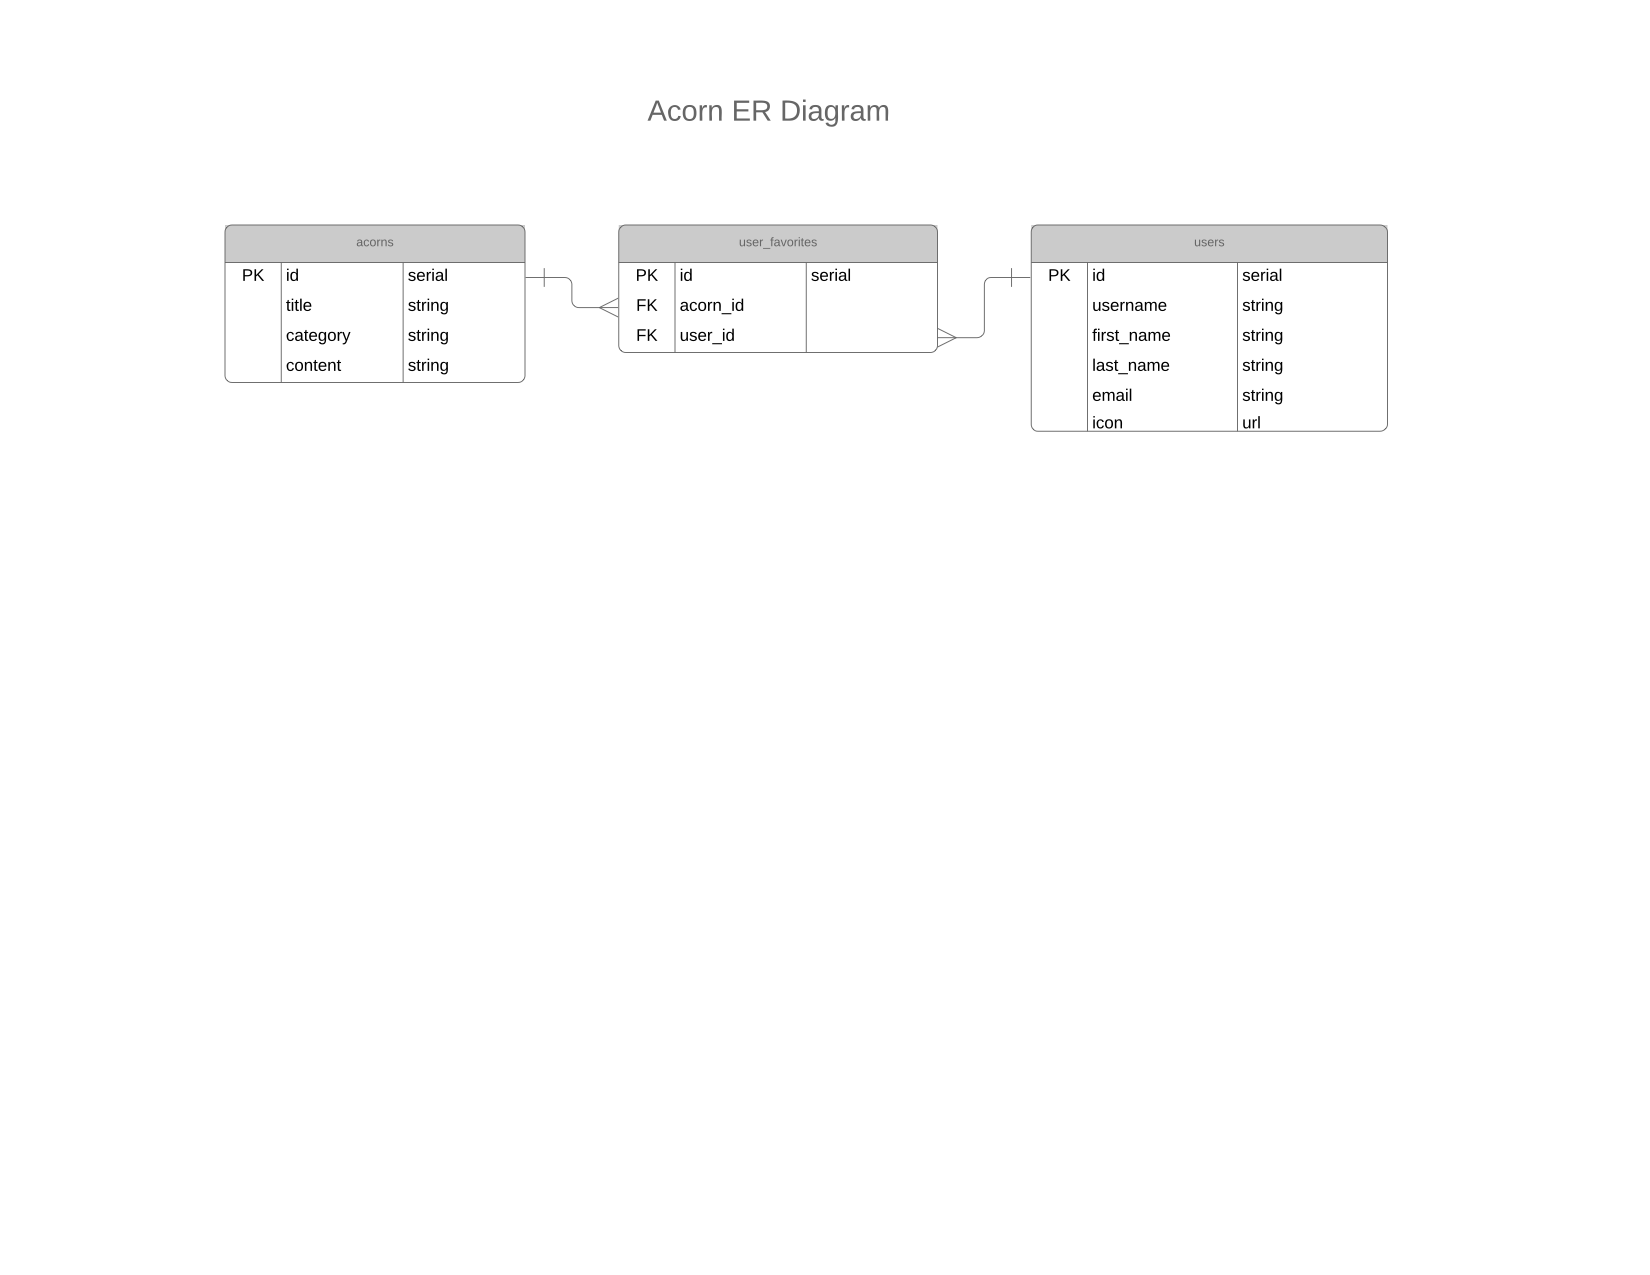
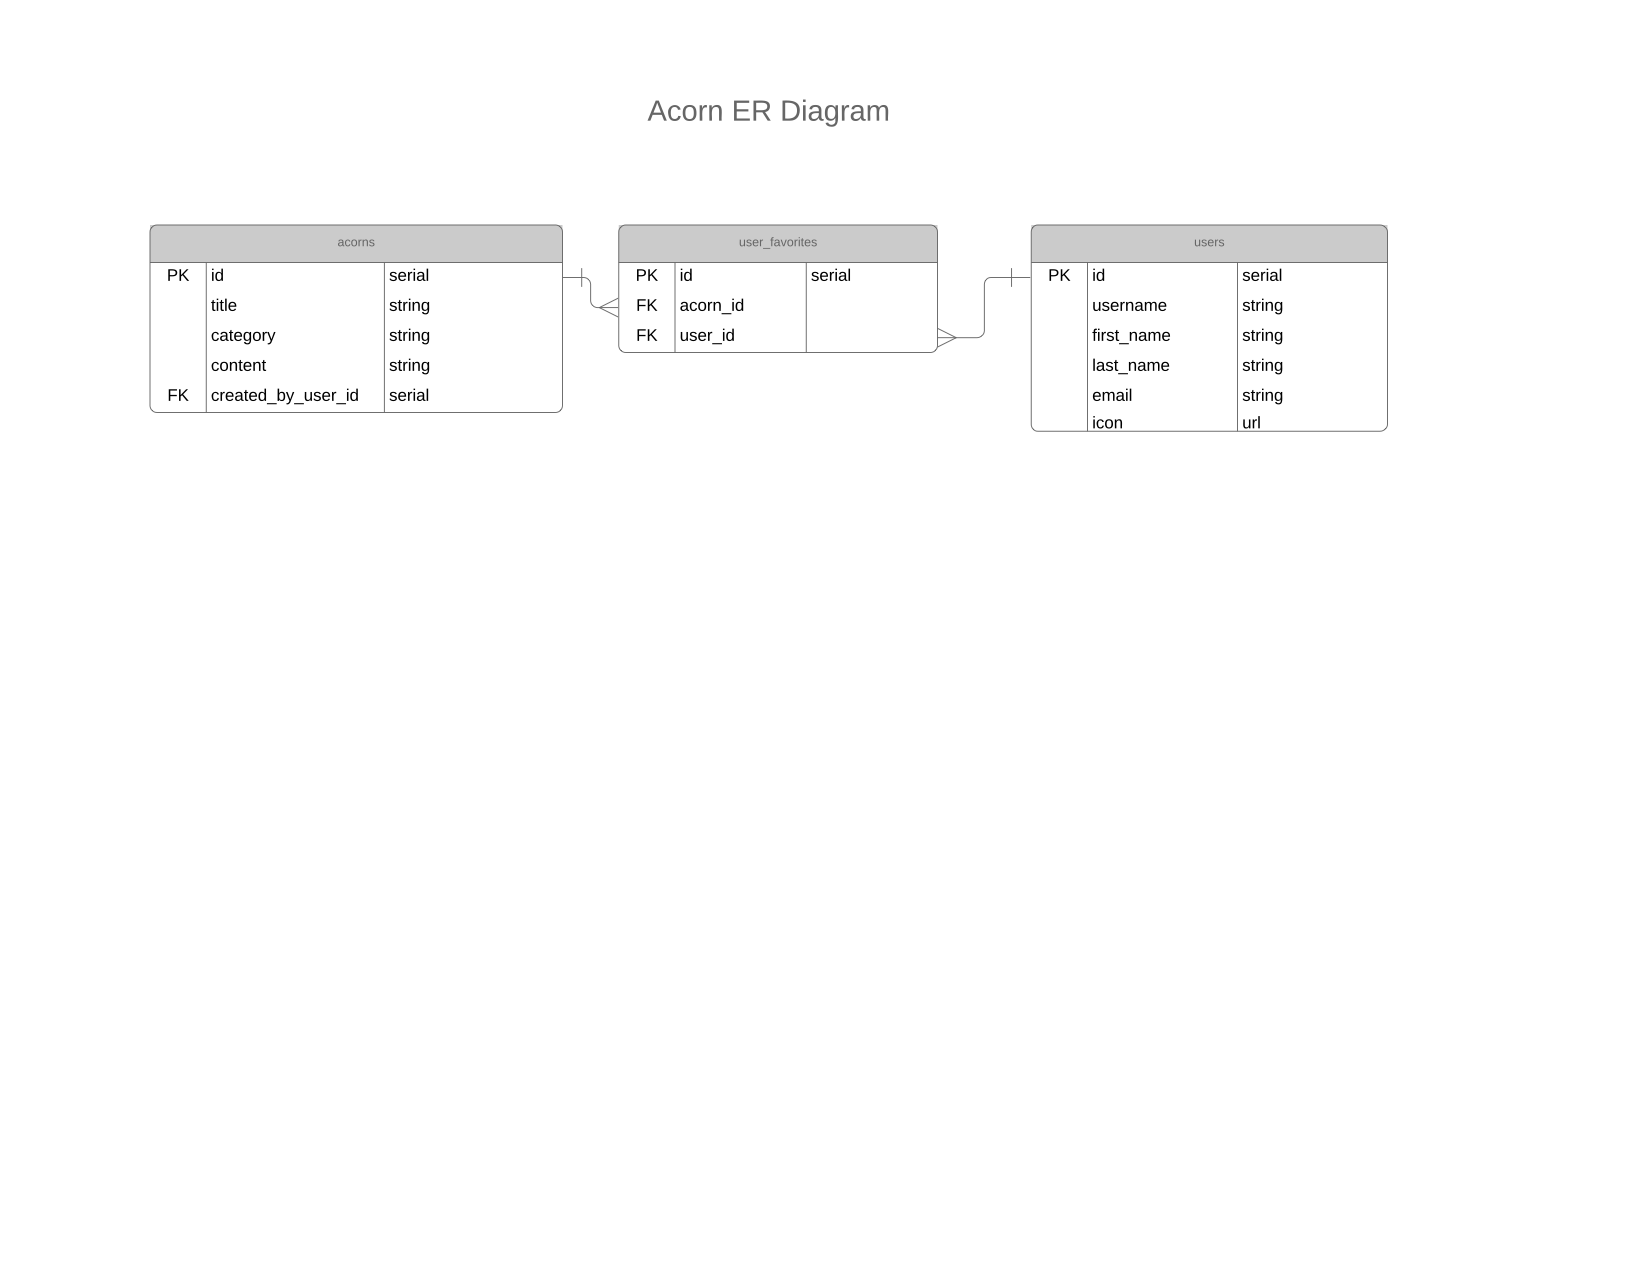
Updated ERD, added async componentDidMount to app.js.

Changed region(s): [[0.0927, 0.1529, 0.2782, 0.3365], [0.3091, 0.1529, 0.34, 0.2141], [0.34, 0.2141, 0.3709, 0.2447]]

diff --git a/src/App.js b/src/App.js
@@ -2,11 +2,37 @@ import React, { Component } from 'react';
 import logo from './logo.svg';
 import './App.css';
 
+
+
+
+
+
+
+
+
+
 class App extends Component {
-  render() {
+async componentDidMount(){
+  const response = await fetch('http://localhost:3000/acorns')
+          const json = await response.json()
+          let data = json.map((acorns,i) => {
+            return {
+              ...acorns,
+                // class: classArray[i],
+                // img: imgArray[i],
+                // overlay: spanClass[i]
+            }
+          })
+          console.log(data)
+          this.setState({ acorns:data })
+      }
+}
+
+
+    render() {
     return (
       <div className="App">
-        
+        // https://acorns4darkdays.herokuapp.com
       </div>
     );
   }
